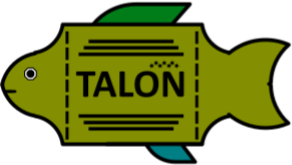
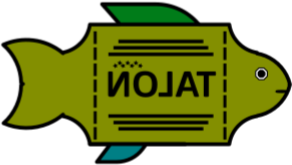
Implementacja zdjęć ryb do gry, poprawa niektórych elementów

diff --git a/fishGame.js b/fishGame.js
@@ -6,7 +6,8 @@ var programCode = function(p) {
     // Ustawienie liczby klatek na sekundę (60 FPS)
     p.frameRate(60);
     // W tym miejscu możesz wkleić kod napisany w języku Processing z Khan Academy:
-console.log("FishGame loaded — Processing in window?", typeof Processing);
+    console.log("FishGame loaded — Processing in window?", typeof Processing);
+
     /* Lista zmian/dodatków względem pierwszej wersji gry:
         - pobranie biblioteki processingJS w celu obsługi gry offline ✔
         - obniżenie poziomu wody i ludzika w celu większego miejsca na krajobraz i niebo ✔
@@ -37,16 +38,21 @@ window.Bubbles = window.Bubbles || new Audio('data/bubbles.mp3')
 window.reeling.volume = 0.2;
 
 //Zdjęcia ryb
-let fish1 = p.loadImage("data/fish1.png");
-let fish2 = p.loadImage("data/fish2.png");
-let fish3 = p.loadImage("data/fish3.png");
-let fish4 = p.loadImage("data/fish4.png");
-let fish5 = p.loadImage("data/fish5.png");
-let fish6 = p.loadImage("data/fish6.png");
-let fish7 = p.loadImage("data/fish7.png");
-let fish8 = p.loadImage("data/fish8.png");
-let fish9 = p.loadImage("data/fish9.png");
-let fish10 = p.loadImage("data/fish10.png");
+dayFishImages = [
+    p.loadImage("data/fish1.png"),
+    p.loadImage("data/fish2.png"),
+    p.loadImage("data/fish3.png"),
+    p.loadImage("data/fish4.png"),
+    p.loadImage("data/fish5.png")
+];
+
+nightFishImages = [
+    p.loadImage("data/fish6.png"),
+    p.loadImage("data/fish7.png"),
+    p.loadImage("data/fish8.png"),
+    p.loadImage("data/fish9.png"),
+    p.loadImage("data/fish10.png")
+];
 
 //konstruktor wędki
 var Rod = function() {
@@ -255,9 +261,8 @@ var Fish = function() {
     this.swimmingStates = ['slowSwim', 'mediumSwim', 'fastSwim']; //tablica z różnymi stanami prędkości ryb
     this.randomSwim = 'fastSwim'; //początkowy stan prędkości ryby
 
-    this.eyeX = 17;
-    this.bodyColor = p.color(p.random(100, 255), p.random(50, 150), p.random(50, 150)); //ryba posiada losowe ubarwienie
-    this.finColor = p.color(p.random(50, 150), p.random(150, 255), p.random(100, 255));
+    this.eyeX = 23;
+    this.image = dayFishImages.splice(Math.floor(p.random(dayFishImages.length)), 1)[0]; //kazda ryba ma inny image
     this.direction = new p.PVector(p.random(1) < 0.5 ? -1 : 1, p.random(1) < 0.5 ? -1 : 1); //warunek wybiera początkowy kierunek ruchu ryby: 1 - prawo/góra lub -1 - lewo/dół
 
     this.fishHooked = false;    //flaga używana do sprawdzenia czy ryba jest zahaczona
@@ -276,14 +281,13 @@ Fish.prototype.draw = function() {
     p.rotate(this.angle);  //obrót ryby w kierunku, w którym płynie
     p.scale(this.size, this.size * this.direction.x);  //Jeśli ryba płynie w lewo, jej skala w osi Y musi zostać pomnożona przez -1 aby ryba nie płynęła do góry (płetwami?) (skala ryby jest na minusie - obraca się poprzez lustrzane odbicie)
 
-    //tułów
-    if (fish1) {
-        p.imageMode(p.CENTER);
-        p.image(fish1, 0, 0, 100, 50);
-    }
+    //ciało ryby
+    p.imageMode(p.CENTER);
+    p.image(this.image, 0, 0, 50, 25);
+    
     //oko
     p.fill(0, 0, 0);
-    p.ellipse(this.eyeX, -1.5, 2, 2);
+    p.ellipse(this.eyeX, 1, 2, 2);
 
     p.popMatrix();
 };
@@ -414,7 +418,7 @@ Fish.prototype.isHooked = function(rod, index) {
     var rotatedEyeY = this.position.y + (eyeOffsetX * p.sin(this.angle) + eyeOffsetY * p.cos(this.angle));    //obliczenie y'
 
     //Sprawdzanie, czy haczyk i oko ryby są w odpowiedniej odległości
-    if (p.dist(rod.hookPos.x, rod.hookPos.y, rotatedEyeX, rotatedEyeY) < 5) {   //punktem zahaczenia haczyka jest oko ryby
+    if (p.dist(rod.hookPos.x, rod.hookPos.y, rotatedEyeX, rotatedEyeY) < 5) {   //punktem zahaczenia haczyka jest oko ryby (UWAGA - W WERSJI "TalonCatch" GRY PUNKTEM ZAHACZENIA JEST BUZIA RYBY)
         this.hooked(rod, index);    //Wywołanie funkcji, jeśli haczyk jest w pobliżu
     }
 };
@@ -459,8 +463,8 @@ Fish.prototype.miniGame = function(rod, index) {
         p.rect(50, 300, greenRect, 50);   //zielony pasek
         greenRect = p.constrain(greenRect, 0, 300);   //zielony pasek nie może wychodzić poza pasek biały
 
-        if (p.frameCount % 10 === 0) {
-            greenRect -= 2.3 * this.size; //im większa ryba tym ciężej ją wyłowić - pasek szybciej idzie w lewo
+        if (p.frameCount % 5 === 0) {
+            greenRect -= 2 * this.size; //im większa ryba tym ciężej ją wyłowić - pasek szybciej idzie w lewo
         }
 
         if (p.keyPressed && p.keyCode === 32) {
@@ -515,8 +519,7 @@ var NightFish = function() {
 
     this.position = new p.PVector(p.random(460, 480), p.random(170, 380)); // ryby nocne na początku gry są poza płótnem
 
-    this.bodyColor = p.color(p.random(20, 100), p.random(10, 80), p.random(10, 80)); //ryby nocne mają ciemniejsze kolory
-    this.finColor = p.color(p.random(10, 80), p.random(80, 200), p.random(50, 200));
+    this.image = nightFishImages.splice(Math.floor(p.random(nightFishImages.length)), 1)[0]; //kazda ryba ma inny image
 
     this.nightFishAway = false; //flaga używana do sprawdzenia czy na płótnie jest odpowiedni rodzaj ryby
 };
@@ -606,8 +609,8 @@ NightFish.prototype.miniGame = function(rod, index) {
 
         greenRect = p.constrain(greenRect, 0, 300);   //zielony pasek nie może wychodzić poza pasek biały
     
-        if (p.frameCount % 10 === 0) {
-            greenRect -= 2.3 * this.size; //im większa ryba tym ciężej ją wyłowić - pasek szybciej idzie w lewo
+        if (p.frameCount % 5 === 0) {
+            greenRect -= 2 * this.size; //im większa ryba tym ciężej ją wyłowić - pasek szybciej idzie w lewo
         }
 
         if (p.keyPressed && p.keyCode === 32) {
@@ -832,7 +835,7 @@ day = function(){
     p.translate(0, -60);
     p.fill(p.lerpColor(landscapeColor, landscapeNightColor, t));
     p.beginShape();   //krajobraz
-    p.vertex(0, 265); p.vertex(0, 131); p.vertex(36, 134); p.vertex(77, 143); p.vertex(132, 157); p.vertex(179, 138); p.vertex(218, 125);
+     p.vertex(0, 265); p.vertex(0, 131); p.vertex(36, 134); p.vertex(77, 143); p.vertex(132, 157); p.vertex(179, 138); p.vertex(218, 125);
      p.vertex(271, 131); p.vertex(320, 131); p.vertex(348, 145); p.vertex(400, 148); p.vertex(400, 242);
     p.endShape(p.CLOSE);
     p.popMatrix();
@@ -1013,6 +1016,22 @@ reset = function() {
         sunX = 438;
         moonX = 420;
 
+        dayFishImages = [
+            p.loadImage("data/fish1.png"),
+            p.loadImage("data/fish2.png"),
+            p.loadImage("data/fish3.png"),
+            p.loadImage("data/fish4.png"),
+            p.loadImage("data/fish5.png")
+        ];
+
+        nightFishImages = [
+            p.loadImage("data/fish6.png"),
+            p.loadImage("data/fish7.png"),
+            p.loadImage("data/fish8.png"),
+            p.loadImage("data/fish9.png"),
+            p.loadImage("data/fish10.png")
+        ];
+
         fish = []; //usuwa poprzednie ryby
         for (var i = 0; i < fishNumber/2; i++) {
             fish.push(new Fish());  //tworzy nowe ryby
@@ -1022,7 +1041,7 @@ reset = function() {
         for (var i = 0; i < fishNumber/2; i++) {
             nightFish.push(new NightFish());  //tworzy nowe ryby nocne
         }
-
+        
         console.log("Game has been reset!");
     }
 };
